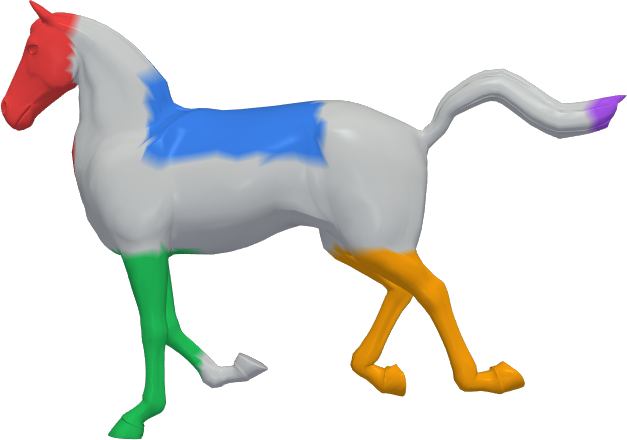
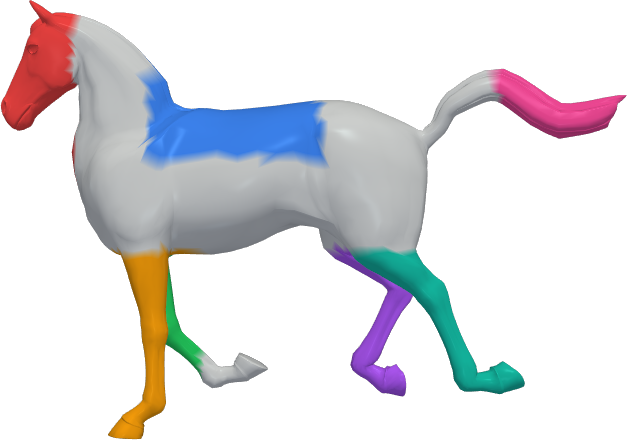
Segmentation: per-leg colors (4 legs) and paint the full tail
Split front/hind legs into left/right by the x symmetry axis (4 distinct
colors) and extend the tail segment to cover the whole tail to the dock.

Changed region(s): [[0.5152, 0.5614, 0.8485, 0.9159], [0.1515, 0.5614, 0.3333, 1.0], [0.7576, 0.1477, 1.0, 0.325]]

diff --git a/gen/gen_26_correspondence_transfer.py b/gen/gen_26_correspondence_transfer.py
@@ -40,19 +40,25 @@ def build_texture():
 def build_segmentation():
     Va, Fa = load_mesh(POSE_A)
     Vb, Fb = load_mesh(POSE_B)
-    z, y = Va[:, 2], Va[:, 1]
+    x, y, z = Va[:, 0], Va[:, 1], Va[:, 2]
 
     # confined local parts on a neutral base; gaps left between them so the
-    # segments don't touch (0 = unlabeled / grey)
+    # segments don't touch (0 = unlabeled / grey). Each leg gets its own colour
+    # (left/right split by the x symmetry axis).
     seg = np.zeros(len(Va), dtype=int)
     seg[z > 0.21] = 1                                       # head (muzzle / face)
     seg[(np.abs(z) < 0.11) & (y > 0.05)] = 2               # torso / back
-    seg[(y < -0.07) & (z > 0.05)] = 3                      # front legs (lower)
-    seg[(y < -0.07) & (z < -0.12)] = 4                     # hind legs (lower)
-    seg[(z < -0.46) & (y > -0.02)] = 5                     # tail
+    front = (y < -0.07) & (z > 0.05)
+    hind = (y < -0.07) & (z < -0.12)
+    seg[front & (x < 0)] = 3                                # front-left leg
+    seg[front & (x >= 0)] = 4                               # front-right leg
+    seg[hind & (x < 0)] = 5                                 # hind-left leg
+    seg[hind & (x >= 0)] = 6                                # hind-right leg
+    seg[(z < -0.34) & (y > 0.0)] = 7                        # tail (full)
 
     base = _to_rgb(["#cbd0d6"])[0]
-    colors = _to_rgb(["#ef4444", "#3b82f6", "#22c55e", "#f59e0b", "#a855f7"])
+    colors = _to_rgb(["#ef4444", "#3b82f6", "#22c55e", "#f59e0b",
+                      "#a855f7", "#14b8a6", "#ec4899"])
     col = np.tile(base, (len(Va), 1))
     m = seg > 0
     col[m] = colors[seg[m] - 1]
